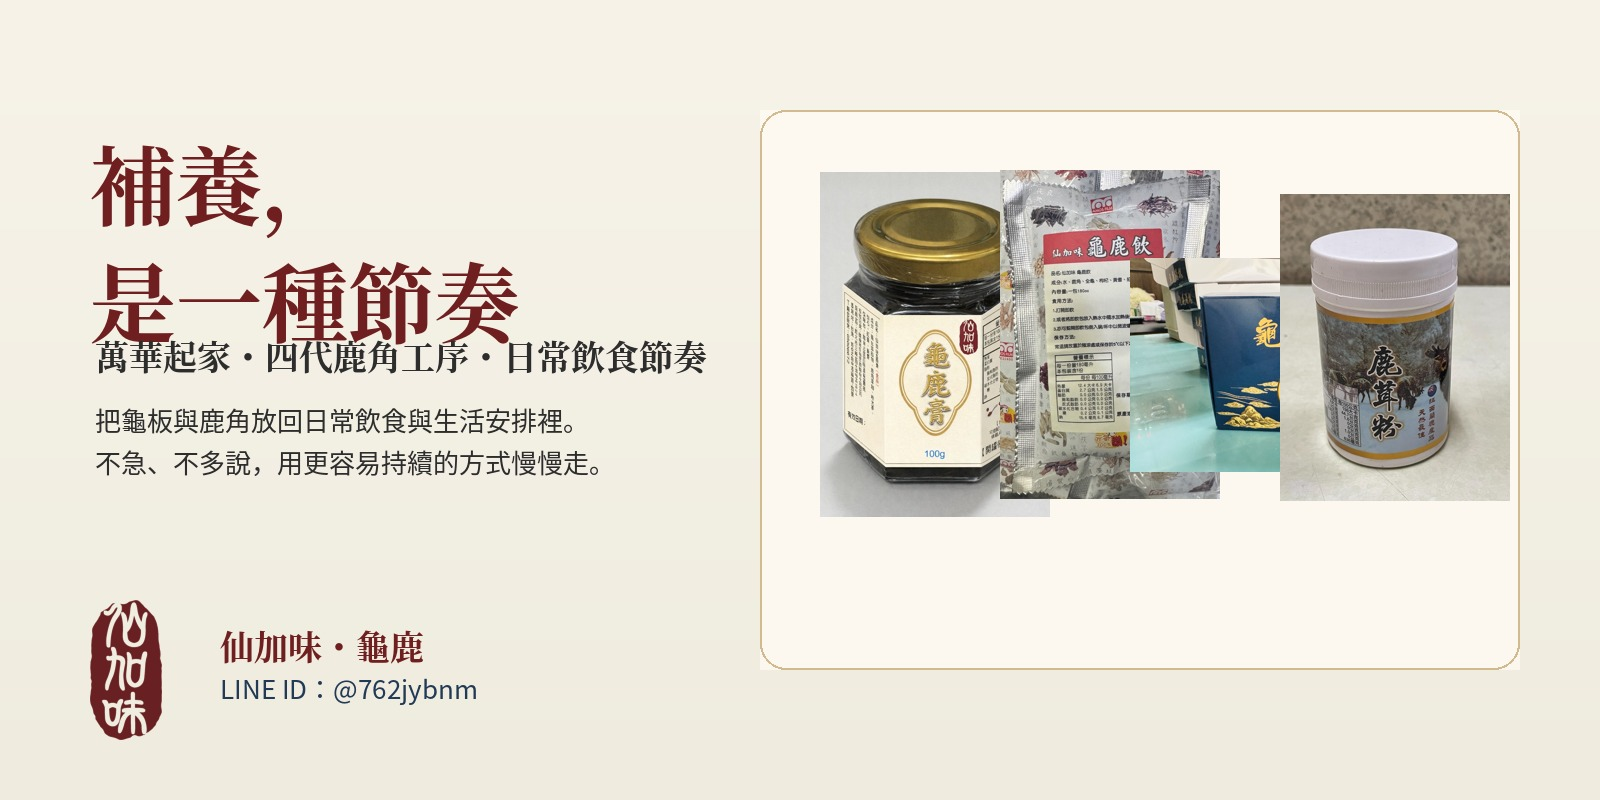
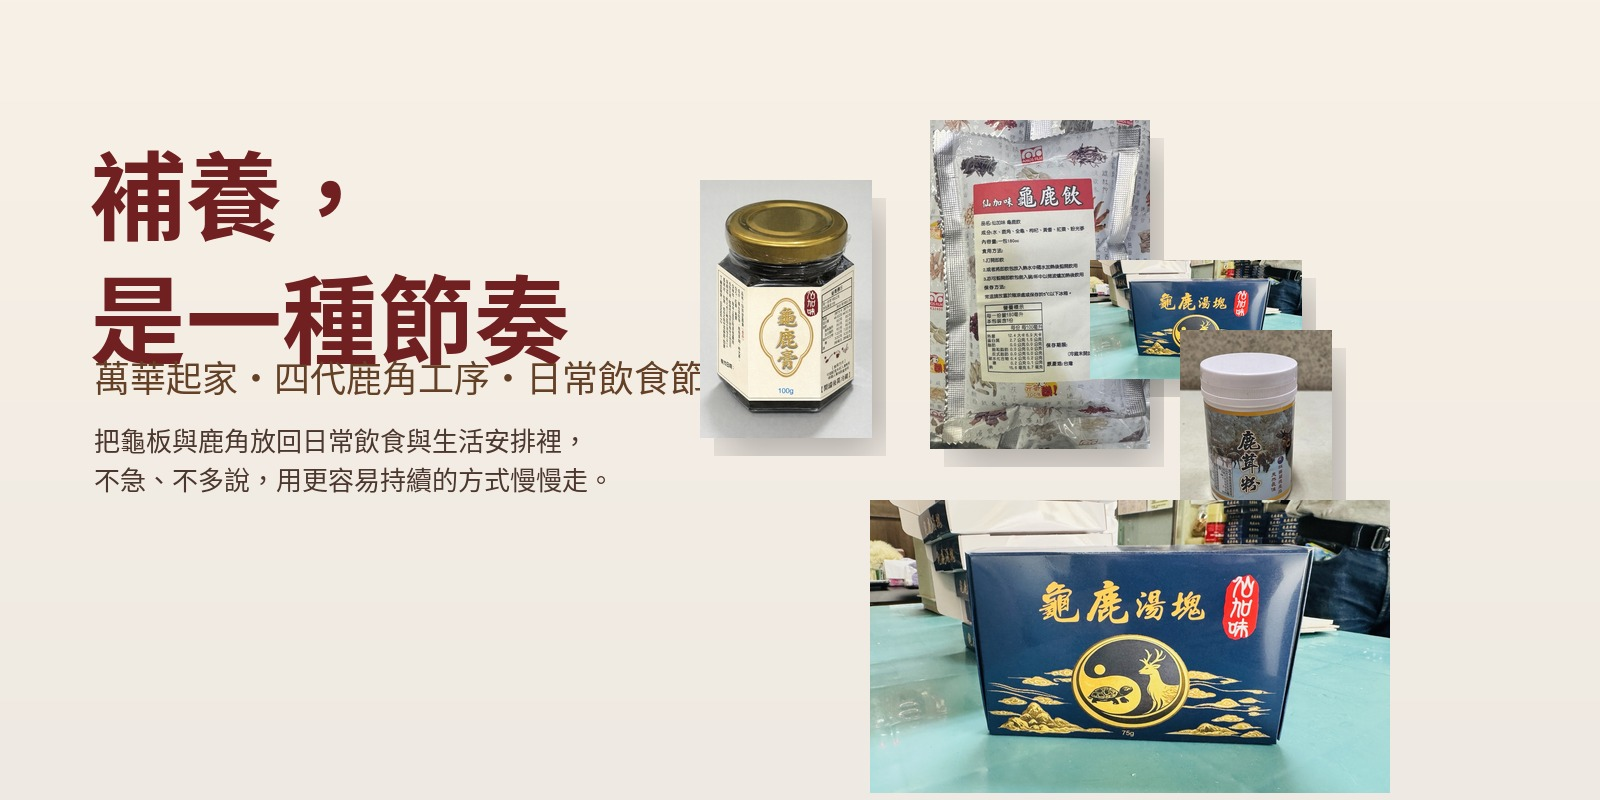
Add files via upload

diff --git a/server.js b/server.js
@@ -1,3 +1,4 @@
+
 "use strict";
 const line = require("@line/bot-sdk");
 const express = require("express");
@@ -5,10 +6,12 @@ const fs = require("fs");
 const path = require("path");
 
 const config = {
[1 lines of base64/hex data omitted]
-  channelSecret: process.env.CHANNEL_SECRET || "7c3c4740afa5a281d54afb9f8ffc1e96",
+  channelAccessToken: process.env.CHANNEL_ACCESS_TOKEN,
+  channelSecret: process.env.CHANNEL_SECRET,
 };
-if (!config.channelAccessToken || !config.channelSecret) console.warn("CHANNEL_ACCESS_TOKEN / CHANNEL_SECRET 尚未設定。");
+if (!config.channelAccessToken || !config.channelSecret) {
+  console.warn("CHANNEL_ACCESS_TOKEN / CHANNEL_SECRET 尚未設定。");
+}
 
 function loadData(){
   const data = JSON.parse(fs.readFileSync(path.join(__dirname, "data.json"), "utf8"));
@@ -25,14 +28,14 @@ function loadData(){
 }
 
 const DATA = loadData();
-const CRM_URL = process.env.CRM_URL || "https://script.google.com/macros/s/AKfycbwAFBxeROd2ZYGJ_h0O7_H2MMxptOMoj3EXIErZpbKuTYFOzOVwQkrk8X1MoxapkHVGSA/exec";
+const CRM_URL = process.env.CRM_URL || "";
 const app = express();
 const client = new line.Client(config);
 const states = new Map();
 
 function money(n){ return `$${Number(n || 0).toLocaleString("zh-TW")}`; }
 function getState(userId){ if(!states.has(userId)) states.set(userId,{cart:[],checkout:null}); return states.get(userId); }
-function cleanName(text){ return String(text||"").replace(/我要買|我要|加入清單|加入購買清單|直接買|只買|看|了解|刪除|移除/g,"").trim(); }
+function cleanName(text){ return String(text||"").replace(/我要買|我要|加入清單|加入購買清單|直接買|只買|建議售價|活動優惠|食用方式|看|了解|刪除|移除/g,"").trim(); }
 function productByName(text){
   const raw = cleanName(text);
   return DATA.products.find(p => p.name===raw || p.displayName===raw || String(text).includes(p.name) || String(text).includes(p.displayName) || (p.aliases||[]).some(a => raw.includes(a) || String(text).includes(a)));
@@ -47,12 +50,27 @@ function addToCart(state,item){ const found=state.cart.find(x=>x.type===item.typ
 function cartTotal(cart){ return cart.reduce((s,i)=>s+(i.price||0)*(i.qty||1),0); }
 function cartText(cart){
   if(!cart.length) return "目前購買清單是空的。";
-  const lines = cart.map((i,idx)=>`${idx+1}. ${i.name} × ${i.qty}${i.price ? "　"+money((i.price||0)*(i.qty||1)) : ""}`);
-  return `目前購買清單：\n\n${lines.join("\n")}\n\n預估合計：${money(cartTotal(cart))}\n\n實際金額、活動與配送方式會由客服再協助確認。`;
+  const lines = cart.map((i,idx)=>`${idx+1}. ${i.name} × ${i.qty}${i.price ? "\n"+money((i.price||0)*(i.qty||1)) : ""}`);
+  return `目前購買清單：\n\n${lines.join("\n\n")}\n\n預估合計：${money(cartTotal(cart))}\n\n實際金額、活動與配送方式會由客服再協助確認。`;
 }
 function qr(items){ return {items:items.slice(0,13).map(i=>({type:"action",action:{type:"message",label:i.label,text:i.text}}))}; }
 function textMsg(text,quick){ const m={type:"text",text}; if(quick) m.quickReply=qr(quick); return m; }
 function reply(token,messages){ return client.replyMessage(token,Array.isArray(messages)?messages:[messages]); }
+
+function productPriceText(p){
+  const activity = (p.activity && p.activity.length) ? `\n\n活動優惠：\n${p.activity.map(x => `・${x}`).join("\n")}` : "";
+  return `【${p.displayName || p.name}】\n\n規格：${p.spec || p.size || ""}\n建議售價：${money(p.price)} / ${p.unit || "件"}${activity}\n\n配送方式：\n✓ 宅配\n✓ 7-11賣貨便\n✓ 門市自取\n✓ 雙北親送`;
+}
+function productActivityText(p){
+  if(p.activity && p.activity.length){
+    return `【${p.displayName || p.name}｜活動優惠】\n\n${p.activity.map(x => `・${x}`).join("\n")}\n\n單品建議售價：${money(p.price)} / ${p.unit || "件"}\n\n實際活動與配送方式由客服協助確認。`;
+  }
+  return `【${p.displayName || p.name}｜活動優惠】\n\n目前多入優惠請洽客服確認。\n\n單品建議售價：${money(p.price)} / ${p.unit || "件"}`;
+}
+function productUsageText(p){
+  const ing = p.ingredients && p.ingredients.length ? `\n\n成分：${p.ingredients.join("、")}` : "";
+  return `【${p.displayName || p.name}｜食用方式】\n\n${(p.usage || []).join("\n\n")}${ing}`;
+}
 
 function productFlex(p){
   return {type:"bubble",size:"mega",
@@ -61,11 +79,14 @@ function productFlex(p){
       {type:"text",text:p.displayName||p.name,weight:"bold",size:"xl",wrap:true},
       {type:"text",text:p.description||"",wrap:true,size:"sm",color:"#555555"},
       {type:"text",text:`規格：${p.spec||p.size||""}`,wrap:true,size:"sm",color:"#555555"},
-      {type:"text",text:"價格與搭配方案可直接詢問LINE",wrap:true,weight:"bold",color:"#7B1E1E"}
+      {type:"text",text:"價格、活動與搭配方案可點下方按鈕查看",wrap:true,weight:"bold",color:"#7B1E1E"}
     ]},
     footer:{type:"box",layout:"vertical",spacing:"sm",contents:[
       {type:"button",style:"primary",color:"#7B1E1E",action:{type:"message",label:"加入清單",text:`加入清單 ${p.displayName||p.name}`}},
-      {type:"button",style:"secondary",action:{type:"message",label:"直接買",text:`直接買 ${p.displayName||p.name}`}},
+      {type:"button",style:"secondary",action:{type:"message",label:"立即下單",text:`直接買 ${p.displayName||p.name}`}},
+      {type:"button",style:"link",action:{type:"message",label:"建議售價",text:`建議售價 ${p.displayName||p.name}`}},
+      {type:"button",style:"link",action:{type:"message",label:"活動優惠",text:`活動優惠 ${p.displayName||p.name}`}},
+      {type:"button",style:"link",action:{type:"message",label:"食用方式",text:`食用方式 ${p.displayName||p.name}`}},
       {type:"button",style:"link",action:{type:"message",label:"查看清單",text:"查看購買清單"}}
     ]}
   };
@@ -78,55 +99,15 @@ function comboFlex(c){
     {type:"text",text:body,wrap:true,size:"sm",color:"#555555"}
   ]},footer:{type:"box",layout:"vertical",spacing:"sm",contents:[
     {type:"button",style:"primary",color:"#7B1E1E",action:{type:"message",label:"加入清單",text:`加入清單 ${c.name}`}},
-    {type:"button",style:"secondary",action:{type:"message",label:"直接買",text:`直接買 ${c.name}`}},
+    {type:"button",style:"secondary",action:{type:"message",label:"立即下單",text:`直接買 ${c.name}`}},
     {type:"button",style:"link",action:{type:"message",label:"查看清單",text:"查看購買清單"}}
   ]}};
 }
 function comboCarousel(){ return {type:"flex",altText:"仙加味搭配組合",contents:{type:"carousel",contents:DATA.combos.map(comboFlex)}}; }
 
 function priceQuick(){ return [{label:"單項售價",text:"單項售價"},{label:"套餐售價",text:"套餐售價"},{label:"看產品",text:"看產品"}]; }
-function singlePriceReply(){ return `【仙加味｜單項售價與活動】
-
-龜鹿飲 30cc玻璃瓶
-單瓶 50元
-12瓶 500元
-24瓶 900元
-
-龜鹿飲 180cc鋁袋
-單包 200元
-6包 1000元
-12包 1800元
-
-龜鹿膏 100g
-單罐 2000元
-2罐優惠請洽客服
-
-龜鹿湯塊 75g（2兩／8塊）
-單盒 2000元
-2盒優惠請洽客服
-
-鹿茸粉 75g
-單罐 2000元
-2罐優惠請洽客服
-
-龜鹿膠 600g（一斤裝／32塊）
-單盒 15000元
-大量／通路合作請洽客服`; }
-function comboPriceReply(){ return `【仙加味｜套餐搭配】
-
-日常節奏組
-龜鹿膏＋龜鹿飲
-
-養生燉湯組
-龜鹿湯塊＋鹿茸粉
-
-完整體驗組
-龜鹿膏＋龜鹿飲＋龜鹿湯塊＋鹿茸粉
-
-專業補養組
-龜鹿膠＋龜鹿湯塊
-
-套餐優惠會依數量、配送方式與活動內容，由客服協助確認。`; }
+function singlePriceReply(){ return `【仙加味｜單項售價與活動】\n\n龜鹿飲 30cc玻璃瓶\n單瓶 50元\n12瓶 500元\n24瓶 900元\n\n龜鹿飲 180cc鋁袋\n單包 200元\n6包 1000元\n12包 1800元\n\n龜鹿膏 100g\n單罐 2000元\n2罐優惠請洽客服\n\n龜鹿湯塊 75g（2兩／8塊）\n單盒 2000元\n2盒優惠請洽客服\n\n鹿茸粉 75g\n單罐 2000元\n2罐優惠請洽客服\n\n龜鹿膠 600g（一斤裝／32塊）\n單盒 15000元\n大量／通路合作請洽客服`; }
+function comboPriceReply(){ return `【仙加味｜套餐搭配】\n\n日常節奏組\n龜鹿膏＋龜鹿飲\n\n養生燉湯組\n龜鹿湯塊＋鹿茸粉\n\n完整體驗組\n龜鹿膏＋龜鹿飲＋龜鹿湯塊＋鹿茸粉\n\n專業補養組\n龜鹿膠＋龜鹿湯塊\n\n套餐優惠會依數量、配送方式與活動內容，由客服協助確認。`; }
 function mainQuick(){ return [{label:"看產品",text:"看產品"},{label:"單項售價",text:"單項售價"},{label:"套餐售價",text:"套餐售價"},{label:"查看清單",text:"查看購買清單"},{label:"直接下單",text:"我想直接下單"}]; }
 function cartActions(state){ return state.cart.length ? [{label:"繼續加商品",text:"看產品"},{label:"移除商品",text:"移除商品"},{label:"清空清單",text:"清空購買清單"},{label:"直接結帳",text:"直接結帳"}] : [{label:"看產品",text:"看產品"},{label:"套餐售價",text:"套餐售價"}]; }
 function isOfferQuestion(msg){ return /優惠|折扣|活動|比較便宜|便宜一點|買多|方案|有比較划算|有沒有優惠|能不能便宜/.test(msg); }
@@ -139,6 +120,10 @@ async function handleEvent(event){
   if(event.type==="follow") return reply(event.replyToken,textMsg("歡迎來到仙加味・龜鹿🙂\n可以直接點下面按鈕，不用自己打字。",mainQuick()));
   if(event.type!=="message" || event.message.type!=="text") return;
   const userId=event.source.userId; const state=getState(userId); const msg=event.message.text.trim();
+
+  if(msg.startsWith("建議售價")){ const p=productByName(msg); return reply(event.replyToken,textMsg(p?productPriceText(p):"請先點產品卡上的建議售價按鈕。",mainQuick())); }
+  if(msg.startsWith("活動優惠")){ const p=productByName(msg); return reply(event.replyToken,textMsg(p?productActivityText(p):"請先點產品卡上的活動優惠按鈕。",mainQuick())); }
+  if(msg.startsWith("食用方式")){ const p=productByName(msg); return reply(event.replyToken,textMsg(p?productUsageText(p):"請先點產品卡上的食用方式按鈕。",mainQuick())); }
 
   if(/價格|售價|價錢|多少錢/.test(msg)) return reply(event.replyToken,textMsg("請問想了解哪一種價格？",priceQuick()));
   if(/單項售價|單品售價|單項價格/.test(msg)) return reply(event.replyToken,textMsg(singlePriceReply(),mainQuick()));